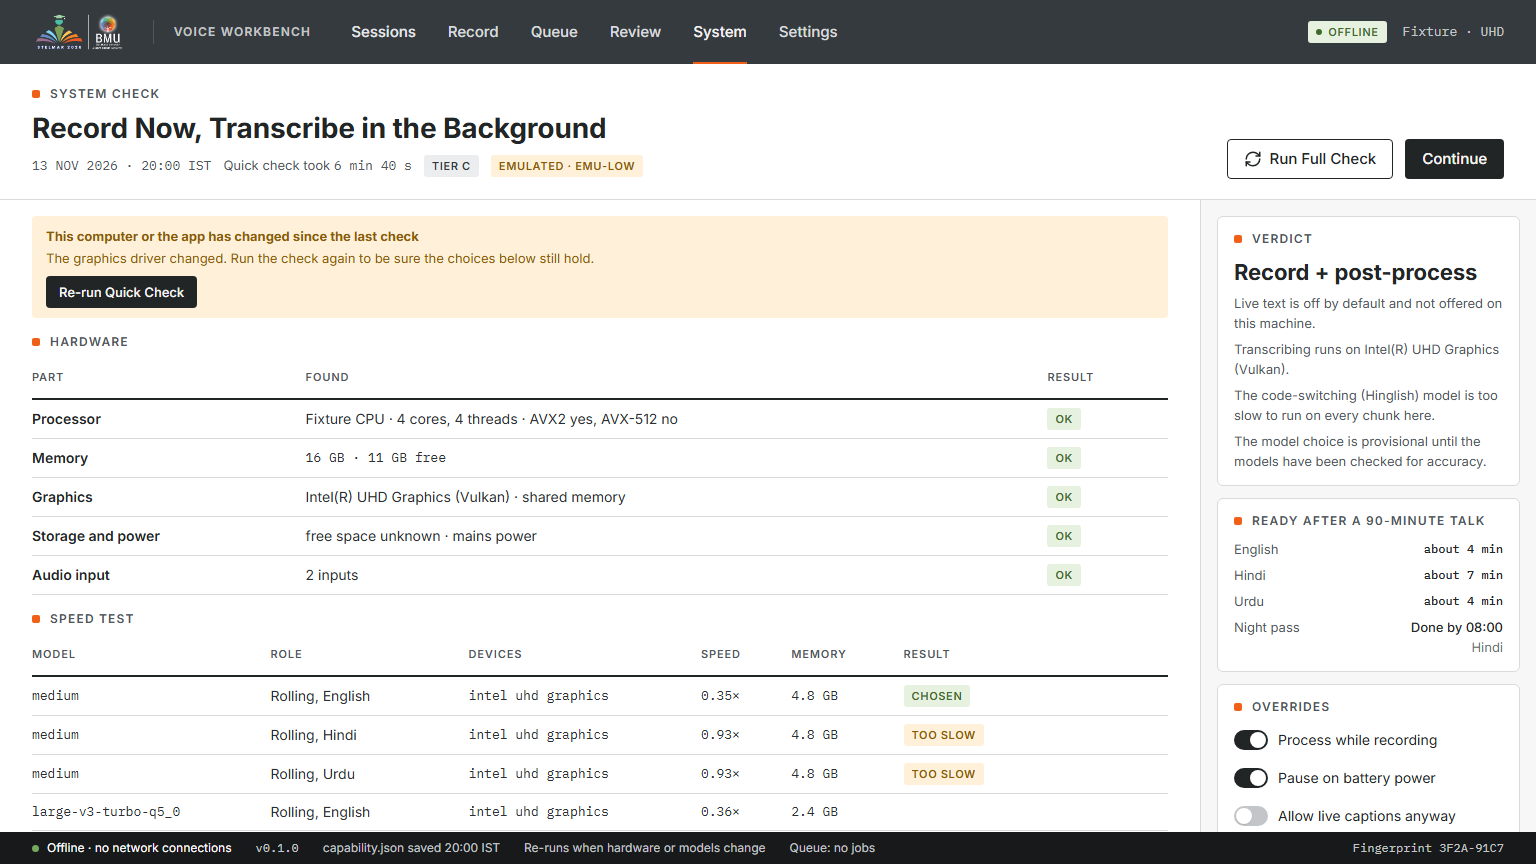
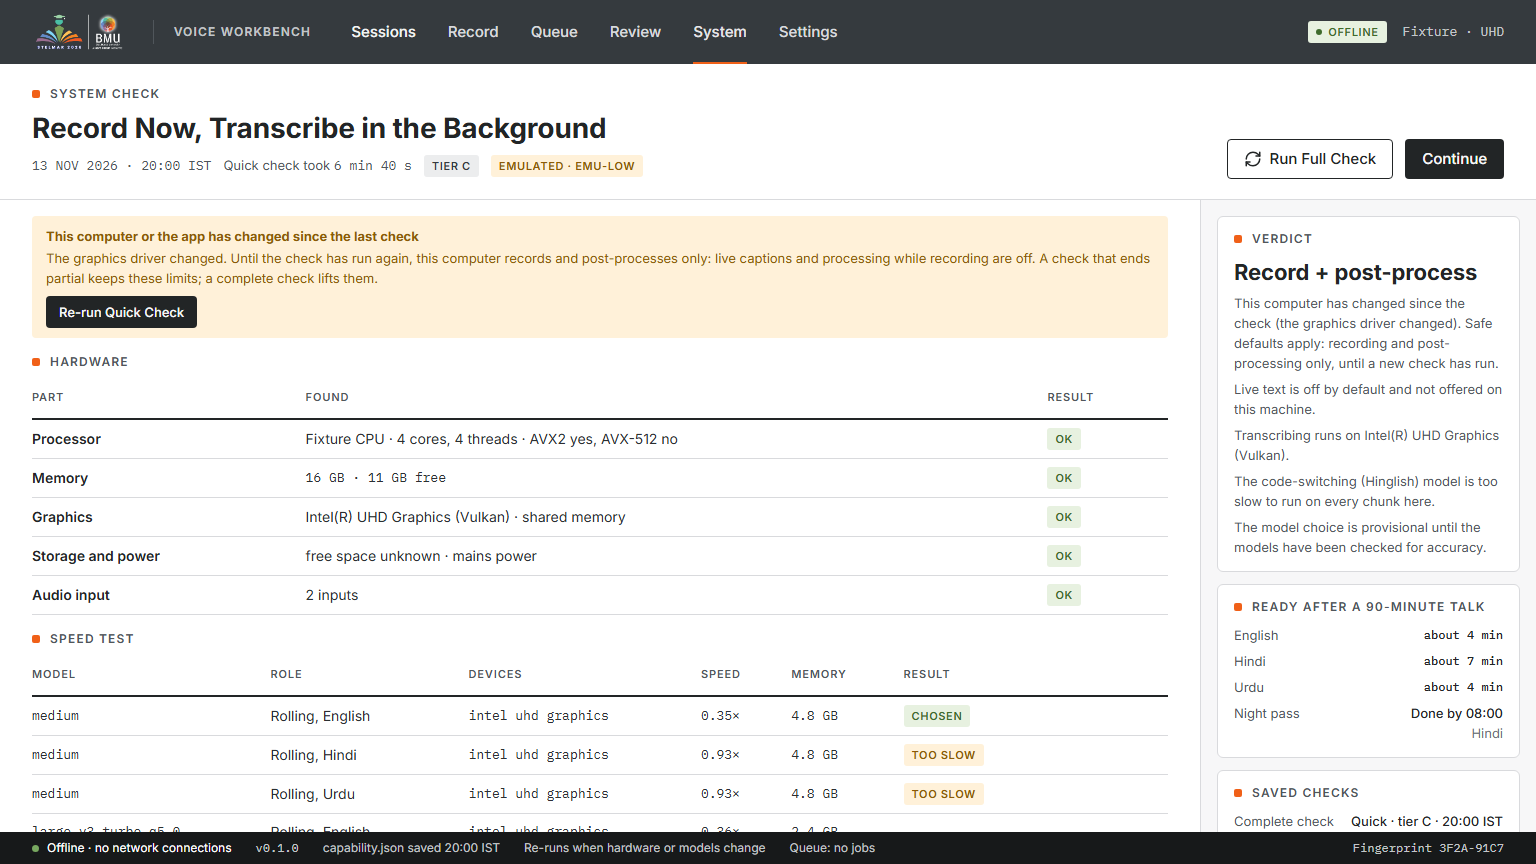
UI: the Start Session dialog scrolls inside the window; bench clips are public FLEURS audio
Owner's decisions 6 and 7 of 14 Nov 2026. Playwright checks at 1366x768 and 1536x864 with a screenshot; THIRD_PARTY_LICENCES.md carries the dated note.

Changed region(s): [[0.0, 0.2812, 1.0, 0.9688], [0.1875, 0.4375, 0.4375, 0.7188], [0.6562, 0.4375, 0.7188, 0.7188]]

diff --git a/e2e/system.spec.ts b/e2e/system.spec.ts
@@ -150,3 +150,51 @@ test("Start Session dialog without a saved profile says live needs the system ch
   await expect(dialog.getByText(/Not offered until the system check has run/)).toBeVisible();
   await expect(dialog.getByRole("radio", { name: /Live captions \+ post-process/ })).toBeDisabled();
 });
+
+test("System screen lists the complete check and a partial one kept apart", async ({ page }) => {
+  await openSystem(page, "tier-g", "&partial=tier-c-low");
+  await expect(page.getByText("Saved checks", { exact: true })).toBeVisible();
+  await expect(page.getByText("Complete check", { exact: true })).toBeVisible();
+  await expect(page.getByText("Partial check", { exact: true })).toBeVisible();
+  await expect(page.getByText("Kept apart; the complete check stays in use")).toBeVisible();
+  await expect(page.getByText("A partial check is kept apart")).toBeVisible();
+  await ready(page);
+  await page.screenshot({ path: `${SHOTS}/system-saved-checks.png` });
+});
+
+test("after a fingerprint change the System screen and the dialog say live and processing while recording are off", async ({ page }) => {
+  await openSystem(page, "tier-g", "&fingerprint=changed");
+  await expect(page.getByText(/live captions and processing while recording are off/)).toBeVisible();
+  const dialog = await openDialog(page, "tier-g", "&fingerprint=changed");
+  // English only would be offered on tier G; after the change nothing is.
+  await dialog.getByText("Hindi / Urdu", { exact: true }).click();
+  await expect(dialog.getByText(/This computer has changed since the check/).first()).toBeVisible();
+  await expect(dialog.getByText("Record + post-process", { exact: false }).first()).toBeVisible();
+});
+
+test("the Start Session dialog scrolls inside a 1366x768 window and keeps Start in reach", async ({ page }) => {
+  await page.setViewportSize({ width: 1366, height: 768 });
+  const dialog = await openDialog(page, "tier-c-low", "&check=running");
+  const box = await dialog.boundingBox();
+  expect(box).not.toBeNull();
+  expect(box!.y).toBeGreaterThanOrEqual(0);
+  expect(box!.y + box!.height).toBeLessThanOrEqual(768);
+  // The footer (Cancel, Start) stays inside the window; the body is what scrolls.
+  const start = dialog.getByRole("button", { name: /Start/ }).last();
+  await expect(start).toBeVisible();
+  const startBox = await start.boundingBox();
+  expect(startBox!.y + startBox!.height).toBeLessThanOrEqual(768);
+  const scrolls = await dialog.evaluate((el) => {
+    const body = Array.from(el.querySelectorAll<HTMLElement>("div")).find((d) => getComputedStyle(d).overflowY === "auto");
+    return body ? body.scrollHeight > body.clientHeight : false;
+  });
+  expect(scrolls).toBe(true);
+  await page.screenshot({ path: `${SHOTS}/start-session-1366x768.png` });
+});
+
+test("the Start Session dialog needs no scrolling at 1536x864 with a saved profile", async ({ page }) => {
+  const dialog = await openDialog(page, "tier-c-low");
+  const box = await dialog.boundingBox();
+  expect(box!.y).toBeGreaterThanOrEqual(0);
+  expect(box!.y + box!.height).toBeLessThanOrEqual(864);
+});

diff --git a/src/ds/Dialog.tsx b/src/ds/Dialog.tsx
@@ -41,6 +41,11 @@ export function Dialog({ open, onClose, title, eyebrow, children, footer, width 
           boxShadow: "var(--shadow-3)",
           borderTop: px(3) + " solid var(--ink-900)",
           overflow: "hidden",
+          // A tall dialog scrolls inside the window instead of running past it (owner, 14 Nov 2026): the header
+          // and the footer stay, the body scrolls. Nothing changes while it fits.
+          display: "flex",
+          flexDirection: "column",
+          maxHeight: `calc(100vh - ${px(48)})`,
         }}
       >
         <div
@@ -50,6 +55,7 @@ export function Dialog({ open, onClose, title, eyebrow, children, footer, width 
             alignItems: "flex-start",
             gap: 16,
             padding: px(20, 24, 0),
+            flexShrink: 0,
           }}
         >
           <div>
@@ -85,6 +91,8 @@ export function Dialog({ open, onClose, title, eyebrow, children, footer, width 
         <div
           style={{
             padding: px(12, 24, 24),
+            overflowY: "auto",
+            minHeight: 0,
             fontFamily: "var(--font-ui)",
             fontSize: 15,
             lineHeight: px(24),
@@ -102,6 +110,7 @@ export function Dialog({ open, onClose, title, eyebrow, children, footer, width 
               padding: px(14, 24),
               background: "var(--paper-50)",
               borderTop: px(1) + " solid var(--ink-200)",
+              flexShrink: 0,
             }}
           >
             {footer}

diff --git a/THIRD_PARTY_LICENCES.md b/THIRD_PARTY_LICENCES.md
@@ -75,3 +75,9 @@ The utterances are joined with 0.8 s of silence and cut at 60 s; nothing else wa
 utterance ids and the SHA-256 of each file is in `resources/bench/clips.json`, and `scripts/make-bench-clips.py`
 rebuilds them. `bench-codeswitch.wav` alternates English and Hindi utterances and stands in for real
 code-switched speech.
+
+*Note of 14 Nov 2026 (owner's decision on the review of the Phase 3 pull request):* the four `resources/bench/*.wav`
+files are public FLEURS audio, published under CC BY 4.0 and credited above. They are not private audio, so
+committing them is allowed under the rule in `AGENTS.md` that bans private audio and model binaries from the
+repository. Recordings of real sessions, the Phase 5 local sets and anything under `eval/data/` stay out of Git.
+
